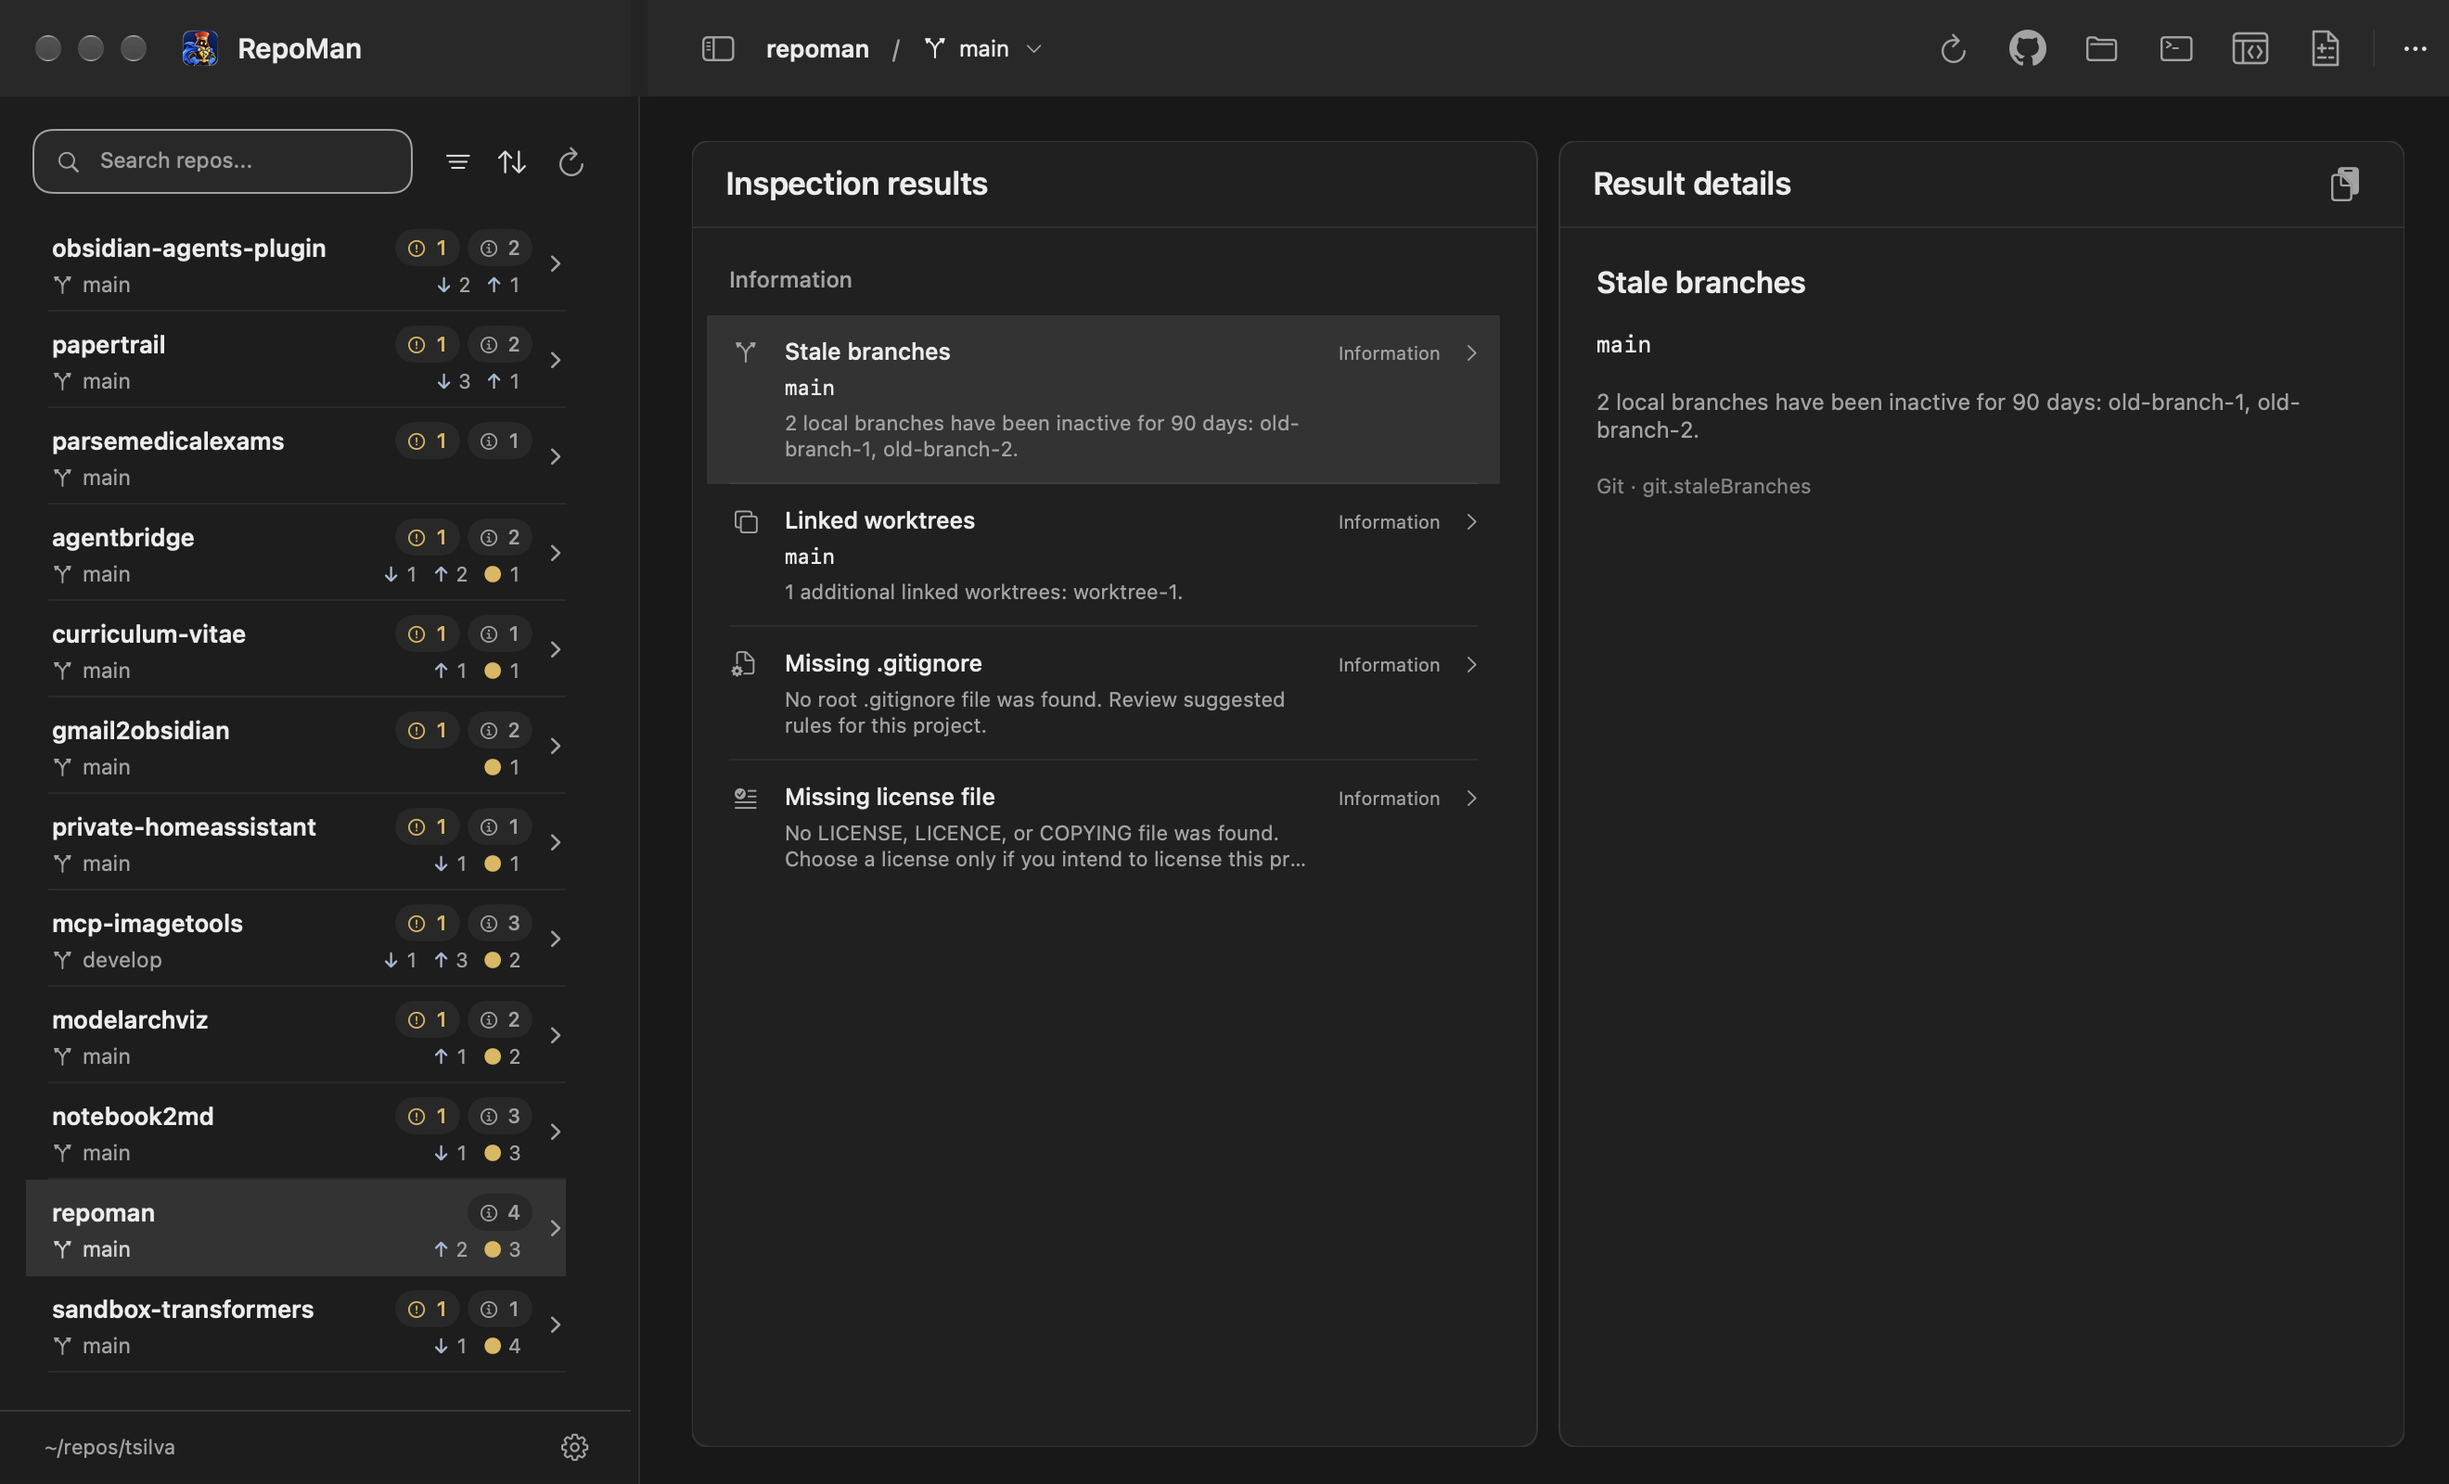
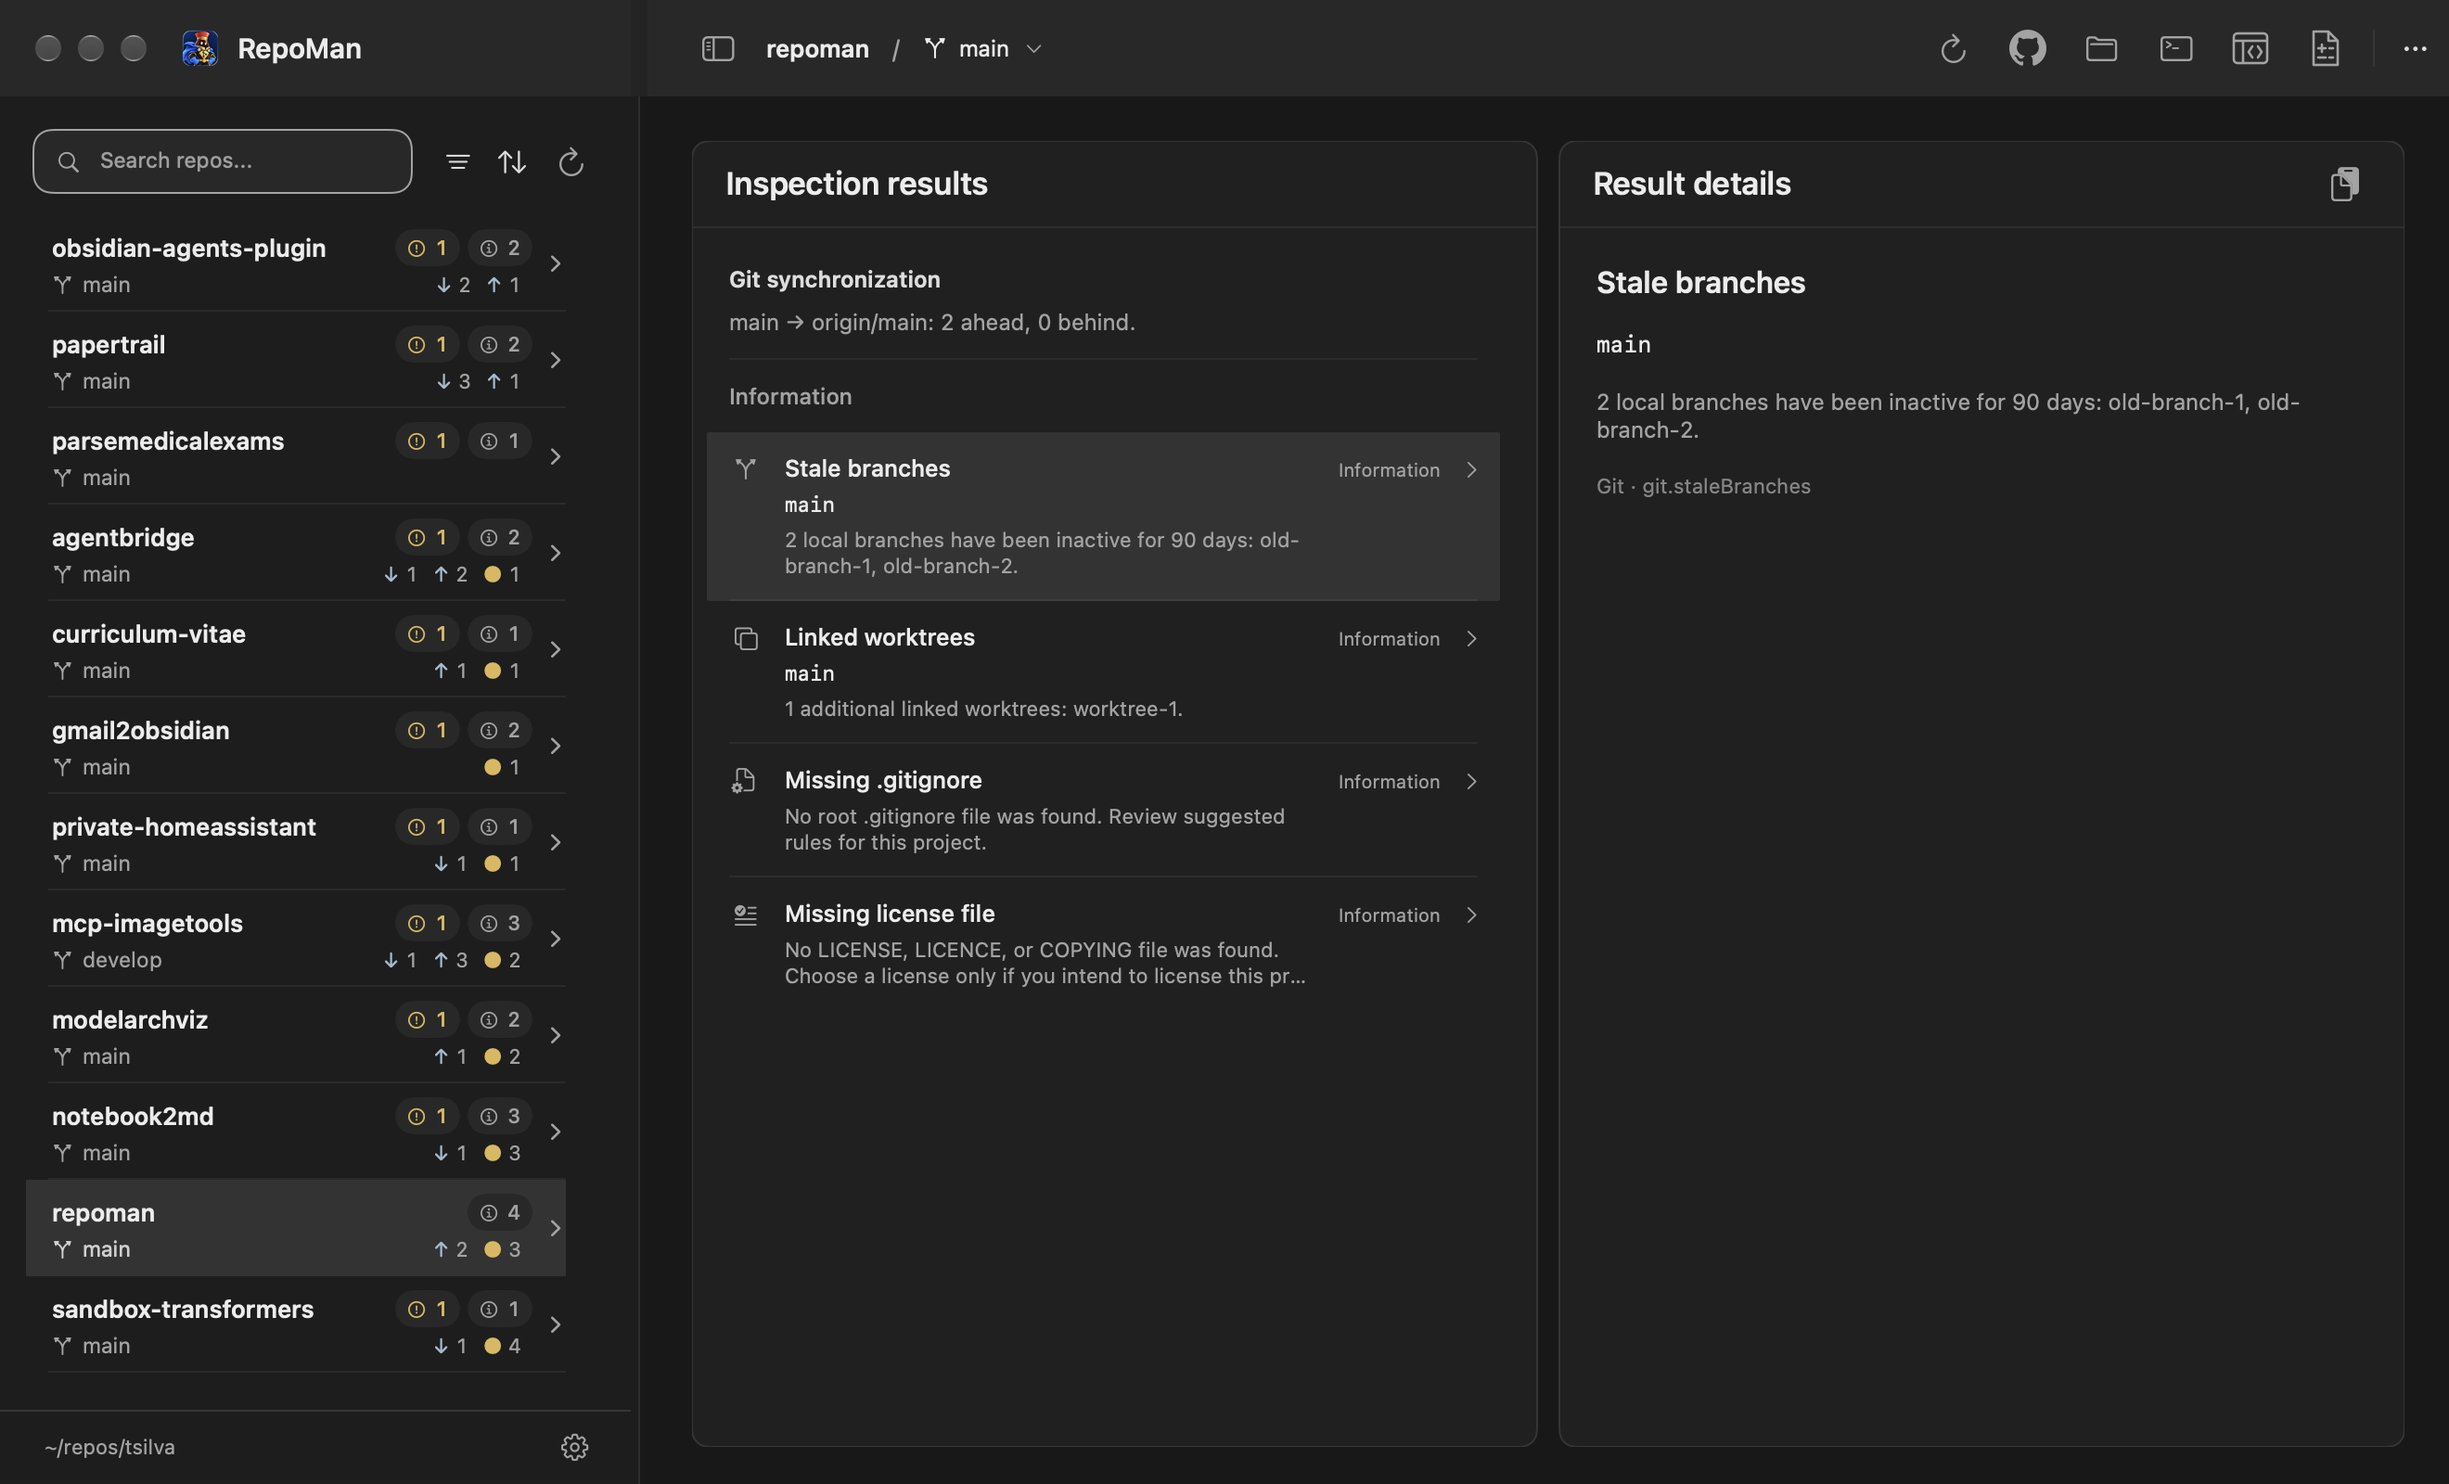
Consolidate Git synchronization status in the repository view

diff --git a/RepoMan/RepositoryIssuesView.swift b/RepoMan/RepositoryIssuesView.swift
@@ -7,13 +7,37 @@ struct RepositoryIssuesView: View {
     let checkID: String?
     @Binding var showsRepositoryChanges: Bool
     @State private var selectedIssueID: String?
-    private var issues: [RepositoryIssueListItem] {
+    private var allIssues: [RepositoryIssueListItem] {
         let visible = repository.map { store.issues(in: $0) }
             ?? store.repositories.flatMap { store.issues(in: $0) }
         return RepositoryIssueListItem.sortedByCheckCategory(
             visible.filter { checkID == nil || $0.finding.checkID == checkID }, checks: store.issueCatalog.checks)
     }
-    private var selected: RepositoryIssueListItem? { issues.first { $0.id == selectedIssueID } }
+    private var synchronizationVisible: Bool {
+        repository != nil && (checkID == nil || RepositoryIssueCatalog.synchronizationCheckIDs.contains(checkID!))
+    }
+    private var issues: [RepositoryIssueListItem] {
+        allIssues.filter { !synchronizationVisible || !RepositoryIssueCatalog.synchronizationCheckIDs.contains($0.finding.checkID) }
+    }
+    @ViewBuilder
+    private var synchronizationSection: some View {
+        if synchronizationVisible, let repository {
+            VStack(alignment: .leading, spacing: 8) {
+                HStack {
+                    Text("Git synchronization").font(.system(size: 12, weight: .semibold))
+                    Spacer()
+                    if repository.synchronizationIsProvisional { Text("Provisional").font(.system(size: 10)).foregroundStyle(Theme.secondary) }
+                }
+                Text(repository.synchronizationSummary).font(.system(size: 12)).foregroundStyle(Theme.secondary)
+                    .fixedSize(horizontal: false, vertical: true)
+                ForEach(allIssues.filter { RepositoryIssueCatalog.synchronizationCheckIDs.contains($0.finding.checkID) }) { issue in
+                    issueRow(issue)
+                }
+            }.padding(12)
+            issueSeparator()
+        }
+    }
+    private var selected: RepositoryIssueListItem? { allIssues.first { $0.id == selectedIssueID } }
     private func select(_ issue: RepositoryIssueListItem) { selectedIssueID = issue.id }
     private func isSelected(_ issue: RepositoryIssueListItem) -> Bool { selected?.id == issue.id }
     private var isChecking: Bool {
@@ -108,7 +132,8 @@ struct RepositoryIssuesView: View {
             } content: {
                 DashboardScrollView {
                     LazyVStack(alignment: .leading, spacing: 0) {
-                        if issues.isEmpty && !isChecking {
+                        synchronizationSection
+                        if allIssues.isEmpty && !isChecking {
                             VStack(spacing: 12) {
                                 Image(systemName: "checkmark.circle").font(.system(size: 25)).foregroundStyle(Theme.green)
                                 Text("No issues from available checks").foregroundStyle(Theme.secondary)
@@ -145,10 +170,10 @@ struct RepositoryIssuesView: View {
                 }
             }
         }.frame(maxWidth: .infinity, maxHeight: .infinity)
-        .onAppear { if store.isDemo { selectedIssueID = issues.first?.id } }
+        .onAppear { if store.isDemo { selectedIssueID = allIssues.first?.id } }
         .onChange(of: repository?.id) { _, _ in clearSelection() }
         .onChange(of: checkID) { _, _ in clearSelection() }
-        .onChange(of: issues) { _, _ in if selected == nil { selectedIssueID = nil } }
+        .onChange(of: allIssues) { _, _ in if selected == nil { selectedIssueID = nil } }
         .inspector(isPresented: $showsRepositoryChanges) {
             if let repository {
                 RepositoryWorkingTreeSidebar(repository: repository) { showsRepositoryChanges = false }

diff --git a/Tests/RepoManCoreTests/RepositoryIssuesTests.swift b/Tests/RepoManCoreTests/RepositoryIssuesTests.swift
@@ -222,6 +222,19 @@ final class RepositoryIssuesTests: XCTestCase {
     private func write(_ path: String, _ text: String, in repo: URL) throws {
         try text.write(to: repo.appendingPathComponent(path), atomically: true, encoding: .utf8)
     }
+    func testSynchronizationSummaryNeverTreatsStaleCountsAsFreshAlignment() {
+        var snapshot = RepositorySnapshot(url: root, name: "repo", branch: "main", upstream: "origin/main", remoteURL: "https://github.com/example/project.git", ahead: 0, behind: 0, changes: [], staleBranches: [], worktrees: [], commits: [])
+        XCTAssertTrue(snapshot.synchronizationIsProvisional)
+        XCTAssertTrue(snapshot.synchronizationSummary.contains("freshness is unknown"))
+        snapshot.fetchedAt = Date()
+        XCTAssertFalse(snapshot.synchronizationIsProvisional)
+        XCTAssertEqual(snapshot.synchronizationSummary, "main matches origin/main.")
+        snapshot.fetchError = "Refresh failed"
+        XCTAssertTrue(snapshot.synchronizationIsProvisional)
+        XCTAssertTrue(snapshot.synchronizationSummary.contains("freshness is unknown"))
+        XCTAssertEqual(RepositoryIssueCatalog.synchronizationCheckIDs, ["git.push", "git.pull", "git.diverged", "git.upstream"])
+    }
+
     private func git(_ arguments: [String], at repo: URL) throws { _ = try GitRunner.run(arguments, at: repo) }
     private func text(_ arguments: [String], at repo: URL) throws -> String { try GitRunner.text(arguments, at: repo) }
 }
@@ -243,4 +256,6 @@ private actor InspectionTestGate {
         continuation?.resume()
         continuation = nil
     }
+
+
 }

diff --git a/RepoManCore/RepositoryModels.swift b/RepoManCore/RepositoryModels.swift
@@ -29,6 +29,17 @@ public struct RepositorySnapshot: Identifiable, Sendable, Equatable {
         return (0..<300).contains(Date().timeIntervalSince(fetchedAt))
     }
 
+    public var synchronizationIsProvisional: Bool { upstream != nil && !hasFreshRemoteComparison }
+    public var synchronizationSummary: String {
+        guard let upstream else { return "\(branch) has no configured upstream. This may be an intentional local branch." }
+        guard let ahead, let behind else { return "\(branch) → \(upstream): upstream comparison is unavailable. Refresh to verify." }
+        if ahead == 0 && behind == 0 {
+            return hasFreshRemoteComparison ? "\(branch) matches \(upstream)." : "Local refs for \(branch) and \(upstream) match; remote freshness is unknown."
+        }
+        let prefix = hasFreshRemoteComparison ? "" : "Provisional local comparison: "
+        return prefix + "\(branch) → \(upstream): \(ahead) ahead, \(behind) behind." + (hasFreshRemoteComparison ? "" : " Refresh before synchronizing.")
+    }
+
     public init(
         url: URL,
         name: String,

diff --git a/RepoManCore/RepositoryIssues.swift b/RepoManCore/RepositoryIssues.swift
@@ -198,6 +198,7 @@ public struct RepositoryCheck: Identifiable, Sendable {
 
 public struct RepositoryIssueCatalog: Sendable {
     /// Git activity is displayed as status, separately from actionable findings.
+    public static let synchronizationCheckIDs: Set<String> = ["git.push", "git.pull", "git.diverged", "git.upstream"]
     public static let activityCheckIDs: Set<String> = ["git.changes", "git.push", "git.pull", "git.diverged"]
     public let checks: [RepositoryCheck]
 

diff --git a/README.md b/README.md
@@ -40,6 +40,8 @@ Click **Choose Folder…** and select the parent folder containing your reposito
 
 Issue rows show current detector results. Incomplete checks remain visibly unknown, separate from confirmed findings. Queued and running checks appear while inspection is in progress; passed checks are hidden. Refresh after fixing something externally to check the result again. The app has no repair presets, selection checkboxes, conversations, agent execution or automatic repair recovery. Earlier conversation files remain on disk but are no longer loaded or resumed.
 
+The selected repository has one **Git synchronization** section combining ahead/behind counts, freshness and upstream findings. Individual CLI check IDs remain unchanged.
+
 Git activity appears beneath each repository's issue badges as **↓** commits to pull, **↑** commits to push, and **●** changed files. Zero counts stay hidden. A `?` on an ahead/behind count means the remote comparison is provisional. Use your Git tools or the `repo-sync` skill to synchronize repositories; RepoMan does not commit, merge or push.
 
 The GitHub toolbar button appears for repositories with a GitHub remote and opens their repository page in your browser. HTTPS and SSH remotes are supported. The folder, terminal and editor toolbar buttons open the selected repository in your own tools. The changes button opens its read-only Git diff. Open **Settings…** from the overflow menu or press **⌘,** to enable or disable checks and change the monitored folder. These preferences do not modify monitored repositories. RepoMan has no model-provider setup or inference calls; use skills such as `optimize-readme` for editorial reviews.

diff --git a/docs/issues.md b/docs/issues.md
@@ -2,6 +2,8 @@
 
 RepoMan inspects local Git repositories and presents current findings. The app has no repair agent, prompt catalog, chat composer, task queue, transcript recovery or automatic issue-fixing execution. Repository maintenance happens in external tools and Codex skills. Selected-repository Refresh live in the top-right window toolbar beside the repository-opening and diff controls; the Issues panel header contains its title. Action icons use gray at rest, white on hover when enabled and darker gray when disabled; disabled icons do not highlight on hover.
 
+The detail panel groups Git push/pull/divergence and upstream information in one synchronization section. It preserves each check ID, finding identity, copy action and the distinction between fresh and provisional counts. Aggregate repository views retain individual entries.
+
 ## Modules
 
 - `RepositoryIssueCatalog` registers detectors with stable IDs, categories, symbols, availability rules and validity periods.
